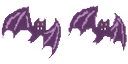
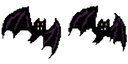
keep the bat's own colours and shrink it to a third
Two corrections to the sprite work:

The purple ramp was a mistake. Romi paints the bat black with purple line
work; the green is only there so the background keys out cleanly, not as a
cue to recolour anything. The builder now passes the paint through
untouched and does nothing but key the green and despill the fringe the
JPEG bled into the edge pixels.

BAT.scaleFactor drops 0.6 -> 0.2, so the bat renders a third of its
previous size during the dash and the coffin flights. Against the Count's
3.4 sprite scale that is roughly a 44px bat instead of a 130px one.

diff --git a/src/data/balance.ts b/src/data/balance.ts
@@ -50,7 +50,7 @@ export const DASH = {
  */
 export const BAT = {
   /** Multiplier on the Count's display scale while he is a bat. */
-  scaleFactor: 0.6,
+  scaleFactor: 0.2,
   flapFrames: 2,
   flapFrameRate: 12,
   /** Smoke motes in the *poof* burst on each transformation. */

diff --git a/tools/build_bat_sheet.py b/tools/build_bat_sheet.py
@@ -1,17 +1,17 @@
 """
 Builds public/assets/characters/bat/bat_fly.png from Romi's two bat frames.
 
-The source frames arrive as 240x240 JPEGs: a solid bat — filled wings and body,
-near-black with purple shading, gold eyes and white fangs — painted on a chroma
-green background. JPEG has no alpha, so this script:
+The source frames arrive as 240x240 JPEGs: a solid black bat — filled wings and
+body, purple line work, gold eyes and white fangs — painted on a chroma green
+background purely so the background keys out cleanly. JPEG has no alpha, so this
+script:
 
   1. keys the green out by greenness (g - max(r, b)), with a ramp across the
      JPEG ringing band that hugs every edge,
-  2. colorises the body onto a purple ramp so it reads against the dark castle
-     floor. The raw art is near-black (median luminance 6) and would vanish into
-     the tiles; the ramp keeps the painted shading but lifts the darkest pixels
-     to a value that separates from the background. Eyes and fangs are already
-     bright and are left exactly as painted,
+  2. despills the green that the JPEG bled into the edge pixels, by clamping
+     the green channel to the other two wherever it runs ahead of them. The
+     painted colours are otherwise passed through UNTOUCHED — the bat is meant
+     to read as black with purple lines, and any recolouring ruins it,
   3. crops both frames to a common box registered on the EYES, so the head
      stays put and only the wings move across the flap,
   4. downscales to the project's 64x64 character frame and lays the two frames
@@ -34,14 +34,8 @@ OUT = Path("public/assets/characters/bat/bat_fly.png")
 # Alpha ramp over greenness (g - max(r, b)). The background sits at ~239 and the
 # paint at <= 0; everything between is JPEG ringing along the edges.
 GREEN_LO, GREEN_HI = 10, 60
-# A pixel this bright is an eye or a fang — already readable, never recoloured.
+# A pixel this bright is an eye or a fang — the crop's registration landmark.
 HIGHLIGHT_LUM = 100
-# The body ramp. Darkest painted pixel becomes BODY_DARK, the brightest shading
-# BODY_LIGHT — the same purple family the dash trail already uses.
-BODY_DARK = np.array([91, 53, 96], dtype=np.float64)
-BODY_LIGHT = np.array([192, 143, 198], dtype=np.float64)
-# Luminance in the source that maps to BODY_LIGHT; above it the ramp saturates.
-BODY_LUM_HI = 70.0
 
 # Crop box registered on the eyes: (dx, dy) from the eye centroid to the box
 # centre, then the box size. Sized from the union of both frames' bounding
@@ -59,15 +53,14 @@ def eye_centroid(rgb: np.ndarray, body: np.ndarray) -> tuple[float, float]:
 
 def to_rgba(path: Path) -> Image.Image:
     rgb = np.asarray(Image.open(path).convert("RGB")).astype(np.float64)
-    greenness = rgb[..., 1] - np.maximum(rgb[..., 0], rgb[..., 2])
-    lum = rgb.max(axis=2)
+    other = np.maximum(rgb[..., 0], rgb[..., 2])
+    greenness = rgb[..., 1] - other
 
     alpha = 1.0 - np.clip((greenness - GREEN_LO) / (GREEN_HI - GREEN_LO), 0.0, 1.0)
 
-    # Two-tone purple ramp over the painted shading, highlights left untouched.
-    t = np.clip(lum / BODY_LUM_HI, 0.0, 1.0)[..., None]
-    ramped = BODY_DARK + (BODY_LIGHT - BODY_DARK) * t
-    out_rgb = np.where(lum[..., None] >= HIGHLIGHT_LUM, rgb, ramped)
+    # Despill: the only colour change. Everything else is Romi's paint as-is.
+    out_rgb = rgb.copy()
+    out_rgb[..., 1] = np.minimum(rgb[..., 1], other)
 
     img = Image.fromarray(
         np.dstack([np.clip(out_rgb, 0, 255), alpha * 255]).astype(np.uint8), "RGBA"
